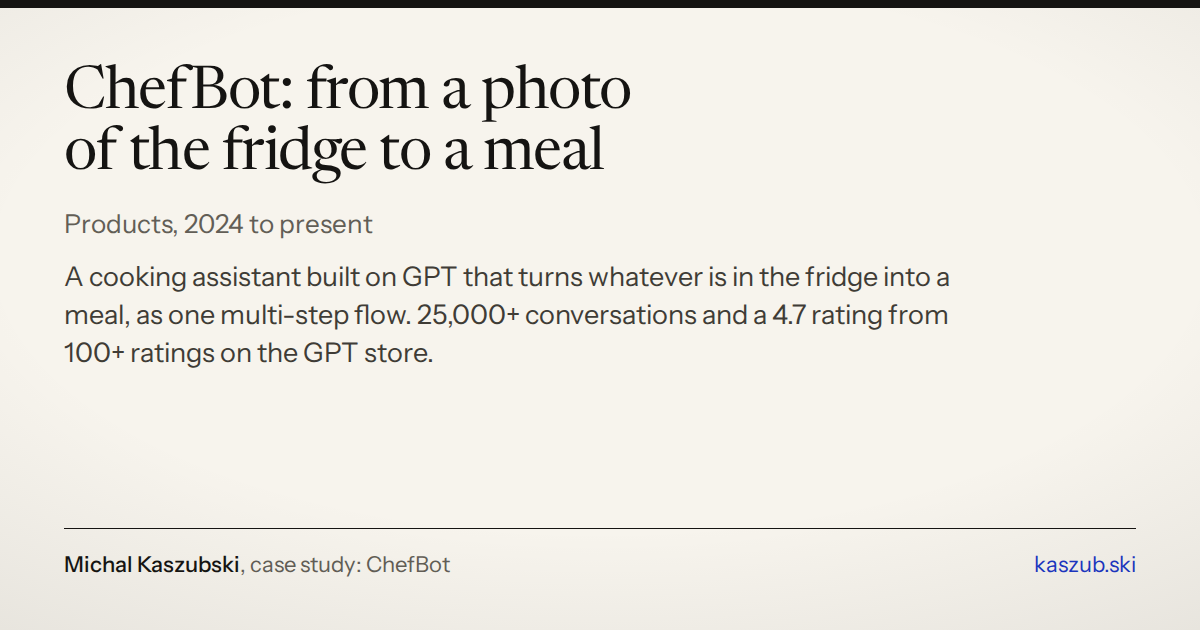
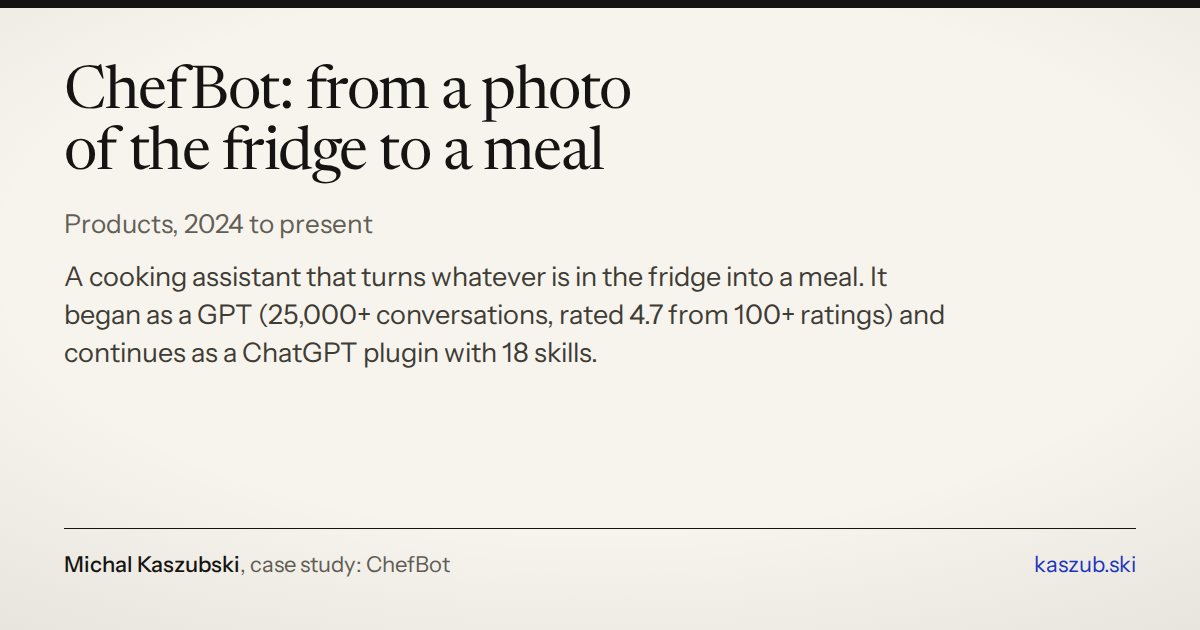
ChefBot: continues as a ChatGPT plugin

Changed region(s): [[0.0308, 0.4222, 0.8017, 0.6032]]

diff --git a/src/data/site.ts b/src/data/site.ts
@@ -85,7 +85,7 @@ export const ledger = [
   {
     value: '25,000+',
     unit: 'ChefBot conversations',
-    context: 'A GPT-based cooking assistant I designed, rated 4.7 from 100+ ratings on the GPT store. Conversations, not people.',
+    context: 'A cooking assistant I designed, rated 4.7 from 100+ ratings as a GPT; it continues as a ChatGPT plugin. Conversations, not people.',
     asOf: 'GPT store listing, screenshots from September 2026',
     kind: 'User adoption',
   },
@@ -218,7 +218,7 @@ export const categories = {
     label: 'Products',
     path: '/products',
     title: 'Products',
-    description: 'Production AI systems and commercial delivery: the NeuralTake consultancy, the AI Zuzi client platform, NeuralKite and a GPT-based cooking assistant.',
+    description: 'Production AI systems and commercial delivery: the NeuralTake consultancy, the AI Zuzi client platform, NeuralKite and a cooking assistant for ChatGPT.',
     intro: 'Work where the evidence is production software, signed contracts and people using the thing.',
   },
   experiments: {
